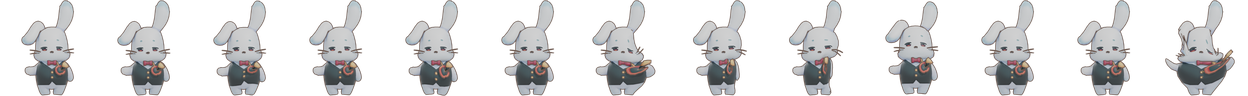
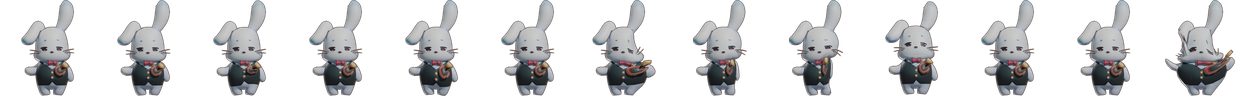
Re-render rabbit sprite with proper 3-light rig for richer shading
Previous render used a bright near-white world background (strength 1.1) as
fill light, which acted as a large ambient softbox that washed out the
key/fill directional contrast - the actual cause of the flat look, not
sample count. Drops the world to a dim ambient floor, adds a real key/fill/
rim 3-light rig, and bumps samples 48->128 for a cleaner result. Re-rendered
and re-packed via the existing rig_glb_mascot.py + pack_sprite_sheet.py
pipeline, same 13-frame/5-clip structure, no downstream code changes needed.

diff --git a/tools/rig_glb_mascot.py b/tools/rig_glb_mascot.py
@@ -133,7 +133,7 @@ def enable_freestyle_outline(thickness=2.5, color=(0.16, 0.11, 0.09)):
 def setup_render(size):
     scene = bpy.context.scene
     scene.render.engine = "CYCLES"
-    scene.cycles.samples = 48
+    scene.cycles.samples = 128
     scene.render.resolution_x = size
     scene.render.resolution_y = size
     scene.render.film_transparent = True
@@ -142,15 +142,27 @@ def setup_render(size):
 
 
 def add_light():
+    # Previous version used a bright near-white world background (strength
+    # 1.1) as fill light - that's a huge ambient softbox surrounding the
+    # whole scene, which washes out the Key/Fill directional contrast and is
+    # why earlier renders read flat despite having two sun lamps. Dropping
+    # the world to a dim ambient floor and doing the actual fill/shading via
+    # a proper 3-light rig (key/fill/rim) gives real shading gradients.
     world = bpy.data.worlds.new("FlatWorld")
     world.use_nodes = True
     bg = world.node_tree.nodes.get("Background")
-    bg.inputs["Color"].default_value = (0.85, 0.86, 0.88, 1.0)
-    bg.inputs["Strength"].default_value = 1.1
+    bg.inputs["Color"].default_value = (0.65, 0.68, 0.75, 1.0)
+    bg.inputs["Strength"].default_value = 0.3
     bpy.context.scene.world = world
-    for name, energy, rot in [("Key", 1.8, (55, 0, 35)), ("Fill", 0.8, (60, 0, -140))]:
+    lights = [
+        ("Key", 3.2, (55, 0, 35)),     # main directional light, upper-front-right
+        ("Fill", 1.0, (65, 0, -140)),  # softer opposite-side fill, keeps shadows from crushing to black
+        ("Rim", 2.0, (110, 0, 200)),   # backlight for edge/silhouette separation from the background
+    ]
+    for name, energy, rot in lights:
         data = bpy.data.lights.new(name, type="SUN")
         data.energy = energy
+        data.angle = math.radians(3.0)  # small penumbra - soft but not shadowless
         obj = bpy.data.objects.new(name, data)
         bpy.context.collection.objects.link(obj)
         obj.rotation_euler = Euler((math.radians(rot[0]), math.radians(rot[1]), math.radians(rot[2])), "XYZ")
